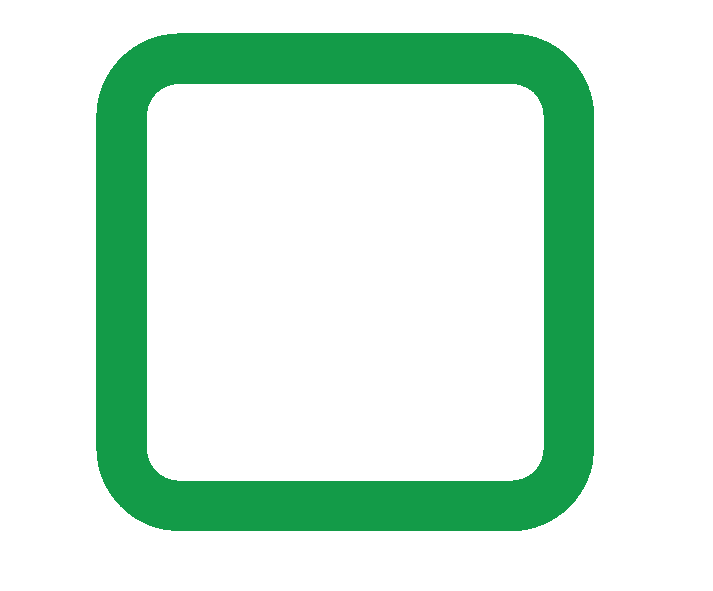
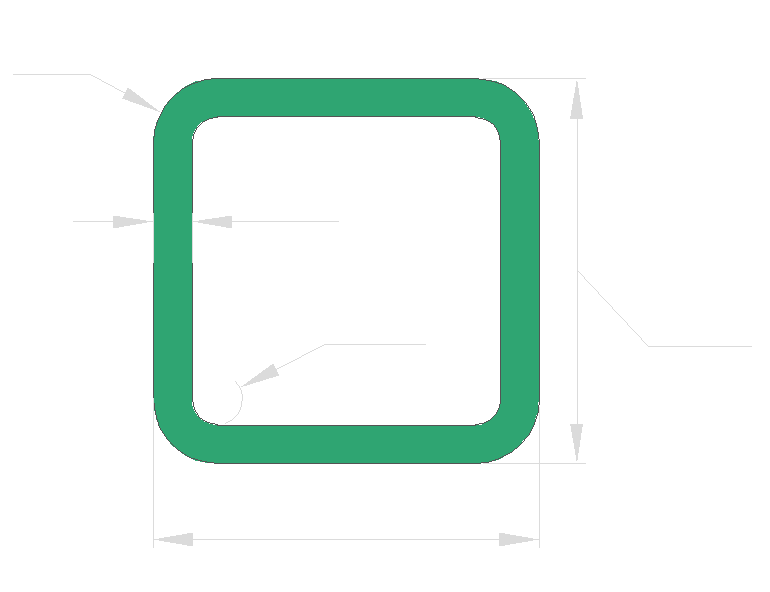
first image with labels

diff --git a/metal_calc.0.7_images.py b/metal_calc.0.7_images.py
@@ -45,44 +45,39 @@ class App(ctk.CTk):
         self.upper_menu = UpperMenu(self)
         self.upper_menu.grid(row=0, column=0, pady=(10, 7), padx=(30, 0), sticky="", columnspan = 2)
 
-        self.image_side = ImageSide(self)
+        # side image with parameters
+        self.image_side_list = [ImageSide(self, 0), ImageSide(self, 1), ImageSide(self, 2), ImageSide(self, 3)]
+        self.image_side = self.image_side_list[0]
         self.image_side.grid(row=1, column=0, pady=(0, 0), padx=(30, 0), sticky="nw")
 
         # interface
-        self.window = BuildInterface(self, 0)
-        self.window1 = BuildInterface(self, 1)
-        self.window2 = BuildInterface(self, 2)
-        self.window3 = BuildInterface(self, 3)
-
-        self.windows_list = [self.window, self.window1, self.window2, self.window3]
+        self.windows_list = [BuildInterface(self, 0), BuildInterface(self, 1), BuildInterface(self, 2), BuildInterface(self, 3)]
         self.interface = self.windows_list[0]
         self.interface.grid(row=1, column=1, pady=(0, 0), padx=(0, 0), sticky="nw")
 
         # create list for entries validations indication
-        self.indL = [False, False, False]
-        self.indL1 = [False, True, False]
-        self.list_of_indLists = [self.indL, self.indL1, "", ""]
+        self.list_of_indLists = [[False, False, False], [False, True, False], "", ""]
         self.indList = self.list_of_indLists[0]
 
         # list for errLabels indexes
-        self.ErLabLi = [self.window.wLabel.label, self.window.hLabel.label, self.window.tLabel.label,
-                        self.window.dLabel.label, self.window.sumLabel.label]
-        self.ErLabLi1 = [self.window1.wLabel.label, "", self.window1.tLabel.label, self.window1.dLabel.label,
-                         self.window1.sumLabel.label]
-        self.ErLabLi2 = ["", "", "", self.window2.dLabel.label, self.window2.sumLabel.label]
-        self.ErLabLi3 = ["", "", "", self.window3.dLabel.label, self.window3.sumLabel.label]
-        self.list_of_labels_lists = [self.ErLabLi, self.ErLabLi1, self.ErLabLi2, self.ErLabLi3]
+        ErLabLi = [self.windows_list[0].wLabel.label, self.windows_list[0].hLabel.label, self.windows_list[0].tLabel.label,
+                        self.windows_list[0].dLabel.label, self.windows_list[0].sumLabel.label]
+        ErLabLi1 = [self.windows_list[1].wLabel.label, "", self.windows_list[1].tLabel.label, self.windows_list[1].dLabel.label,
+                         self.windows_list[1].sumLabel.label]
+        ErLabLi2 = ["", "", "", self.windows_list[2].dLabel.label, self.windows_list[2].sumLabel.label]
+        ErLabLi3 = ["", "", "", self.windows_list[3].dLabel.label, self.windows_list[3].sumLabel.label]
+        self.list_of_labels_lists = [ErLabLi, ErLabLi1, ErLabLi2, ErLabLi3]
         self.ErLabList = self.list_of_labels_lists[0]
         self.ErLabListNew = self.list_of_labels_lists[0]
 
         # list of entries
-        self.entrLst = [self.window.width_entry.entry, self.window.height_entry.entry,
-                        self.window.thickness_entry.entry, self.window.dens_entry.entry, self.window.sumEntry.entry]
-        self.entrLst1 = [self.window1.width_entry.entry, "", self.window1.thickness_entry.entry,
-                         self.window1.dens_entry.entry, self.window1.sumEntry.entry]
-        self.entrLst2 = ["", "", "", self.window2.dens_entry.entry, self.window2.sumEntry.entry]
-        self.entrLst3 = ["", "", "", self.window3.dens_entry.entry, self.window3.sumEntry.entry]
-        self.list_of_entries_lists = [self.entrLst, self.entrLst1, self.entrLst2, self.entrLst3]
+        entrLst = [self.windows_list[0].width_entry.entry, self.windows_list[0].height_entry.entry,
+                        self.windows_list[0].thickness_entry.entry, self.windows_list[0].dens_entry.entry, self.windows_list[0].sumEntry.entry]
+        entrLst1 = [self.windows_list[1].width_entry.entry, "", self.windows_list[1].thickness_entry.entry,
+                         self.windows_list[1].dens_entry.entry, self.windows_list[1].sumEntry.entry]
+        entrLst2 = ["", "", "", self.windows_list[2].dens_entry.entry, self.windows_list[2].sumEntry.entry]
+        entrLst3 = ["", "", "", self.windows_list[3].dens_entry.entry, self.windows_list[3].sumEntry.entry]
+        self.list_of_entries_lists = [entrLst, entrLst1, entrLst2, entrLst3]
         self.entriesList = self.list_of_entries_lists[0]
         self.entriesListNew = self.list_of_entries_lists[0]
 
@@ -91,13 +86,16 @@ class App(ctk.CTk):
         """change frames"""
         # remove focus from entry
         self.interface.focus()
+        self.image_side.grid_remove()
         self.interface.grid_remove()
 
+        self.image_side = self.image_side_list[frame_ind]
         self.interface = self.windows_list[frame_ind]
         self.indList = self.list_of_indLists[frame_ind]
         self.ErLabListNew = self.list_of_labels_lists[frame_ind]
         self.entriesListNew = self.list_of_entries_lists[frame_ind]
 
+        self.image_side.grid(row=1, column=0, pady=(0, 0), padx=(30, 0), sticky="nw")
         self.interface.grid(row=1, column=1, pady=(0, 0), padx=(0, 0), sticky="nw")
 
     ########################
@@ -332,6 +330,7 @@ class App(ctk.CTk):
                 for i, each in enumerate(self.indList):
                     if not each:
                         self.clear_result_entry()
+                        app.image_side.clear_imageside(frame_ind)
                         # if remove not thickness value, change border to green 
                         if i != 2:
                             if self.is_float(self.entriesList[2].get()):
@@ -355,8 +354,8 @@ class App(ctk.CTk):
                 indicator = self.give_color_th(thickness, smaller)
                 if indicator:
                     standard = self.interface.combobox.combobox.get()
-                    ro = 0
-                    ri = 0
+                    ro = 0.0
+                    ri = 0.0
                     spreadsheet = ""
                     if standard == "EN10210":
                         match frame_ind:
@@ -393,8 +392,10 @@ class App(ctk.CTk):
                     if frame_ind == 0:
                         area = round((2 * thickness * (width + height - 2 * thickness) - (4 - 3.141592) *
                                       (ro ** 2 - ri ** 2)) / 100, 5)
+                        app.image_side.pollute_imageside(frame_ind, [width, height, thickness, ro, ri])
                     else:
                         area = round(3.141592 * (width ** 2 - (width - 2 * thickness) ** 2) / 400, 5)
+                        app.image_side.pollute_imageside(frame_ind, [width, thickness])
 
                     self.put_sumtext(area, standard)
 
@@ -425,6 +426,8 @@ class App(ctk.CTk):
 
                 else:
                     self.clear_result_entry()
+                    app.image_side.clear_imageside(frame_ind)
+
             case 2 | 3:
                 self.list_trick()
                 profile_name = self.interface.scrollable_button_frame.button_chosen
@@ -645,6 +648,7 @@ class BuildInterface(ctk.CTkFrame):
 
         match frame_ind:
             case 0 | 1:
+                dens_tail = 0
                 self.wLabel = CreateLabels(self, [0, 0], [lpadx, 0], [hpady, 0], elem_width, "w", 1)
 
                 if frame_ind == 0:
@@ -668,6 +672,7 @@ class BuildInterface(ctk.CTkFrame):
             case 2 | 3:
                 # get list of profiles
                 self.frame_list_of_sec_lists = []
+                dens_tail = 10
                 remove_last = 0
                 if frame_ind == 2:
                     tables_names = ["IPE_EN10365", "IPN_EN10365"]
@@ -682,7 +687,7 @@ class BuildInterface(ctk.CTkFrame):
 
                 self.scrollable_button_frame = ScrollableButtonFrame(self, width=108, height=100, border_width=2,
                                                                      border_color=master.origEntBorderColor, )
-                self.scrollable_button_frame.grid(row=0, column=0, padx=(lpadx, 0), pady=(hpady + 15, lwpady),
+                self.scrollable_button_frame.grid(row=0, column=0, padx=(lpadx, 0), pady=(hpady + 5, lwpady),
                                                   rowspan=4, columnspan=1, sticky="nesw")
                 self.scrollable_button_frame._scrollbar.configure(height=0)  # bug, it's needed
                 self.scrollable_button_frame._scrollbar.grid(row=1, column=1, sticky="nsew", padx=(0, 3))
@@ -692,14 +697,14 @@ class BuildInterface(ctk.CTkFrame):
                 self.Sentry = ctk.CTkEntry(self, width=elem_width, placeholder_text="search", font=self.custom_font,
                                            justify=justify)  # image = image,
                 self.Sentry.bind("<KeyRelease>", lambda event: self.search(event, frame_ind))
-                self.Sentry.grid(row=0, column=1, padx=(lpadx2, 0), pady=(hpady + 15, lwpady))
+                self.Sentry.grid(row=0, column=1, padx=(lpadx2, 0), pady=(hpady + 5, lwpady))
 
         # options menu for standards
         self.combobox = CreateCombobox(self, [1, 1], [lpadx2, 0], [0, lwpady], combo_list, elem_width, self.custom_font,
                                        justify, frame_ind)
 
         self.dLabel = CreateLabels(self, [2, 1], [lpadx2, 0], [0, 0], elem_width, "w", 1)
-        self.dens_entry = CreateEntry(self, [3, 1], [lpadx2, 0], [0, lwpady], elem_width, "7850kg/cub.m",
+        self.dens_entry = CreateEntry(self, [3, 1], [lpadx2, 0], [0, lwpady + dens_tail], elem_width, "7850kg/cub.m",
                                       self.custom_font, vcmd_d, justify, 3, "w", 1, frame_ind)
         self.dens_entry.entry.configure(border_color=master.theme_color)
 
@@ -932,21 +937,60 @@ class ScrollableButtonFrame(ctk.CTkScrollableFrame):
 
 ###########################################################################################
 class ImageSide(ctk.CTkFrame):
-    def __init__(self, master):
+    """side for size illustration"""
+    def __init__(self, master, frame_ind):
         super().__init__(master)
-        #self.configure(fg_color="transparent")
-        image_name = "bigRec2.png"
-        image = ctk.CTkImage(Image.open(App.resource_path("assets\\" + image_name)), size=(293, 225))
+        self.configure(fg_color="transparent")
+        self.labels_parameters = [
+            [["H", 248, 115], ["W", 118, 188], ["t", 90, 68], ["R", 3, 12], ["r", 125, 114]],
+            [["d", 248, 115], ["t", 118, 188]],
+            [["d", 248, 115], ["t", 118, 188]],
+            [["d", 248, 115], ["t", 118, 188]],
+        ]
+        self.image_label_list = [[], [], [], []]
+        self.image_png_names = ["bigRec.png", "round_circle.png", "i-beam.png", "u_sect.png", ]
+        
+        self.create_imageside(frame_ind)
+
+    ##############################
+    def create_imageside(self, frame_ind):
+        """create image and labels"""
+        image = ctk.CTkImage(Image.open(App.resource_path("assets\\" + self.image_png_names[frame_ind])), size=(293, 225))
         self.label = ctk.CTkLabel(self, text="", image=image)
         self.label.pack()
-        self.label_h = ctk.CTkLabel(self.label, text="999.99", fg_color="transparent", font=('Helvetica', 13), height=13)
-        self.label_h.place(x=262, y=78)
-        self.label_w = ctk.CTkLabel(self.label, text="999.99", fg_color="transparent", font=('Helvetica', 13), height=13)
-        self.label_w.place(x=135, y=200)
+        for item in self.labels_parameters[frame_ind]:
+            label = ctk.CTkLabel(self.label, fg_color="transparent", font=('Helvetica', 14), height=13, width=30, anchor= "center",
+                                    text=item[0])
+            label.place(x=item[1], y=item[2])
+            self.image_label_list[frame_ind].append(label)
+
+    ##############################
+    def clear_imageside(self, frame_ind):
+        """clear parameters labels"""
+        for k, _label in enumerate(app.image_side_list[frame_ind].image_label_list[frame_ind]):
+            _label.configure(text=app.image_side_list[frame_ind].labels_parameters[frame_ind][k][0])
+
+    ##############################
+    def pollute_imageside(self, frame_ind, list_of_parameters):
+        """pollute labels on image side"""
+        if frame_ind == 0 or frame_ind == 1:
+            for j, par in enumerate(list_of_parameters):
+                if par.is_integer():
+                    par = int(par)
+                if j < 3:
+                    _text = str(par).replace(".", ",")
+                elif par == 0:
+                    _text = "N/S"
+                elif round(float(par), 1).is_integer():
+                    _text = str(int(round(par, 1))).replace(".", ",")
+                else:
+                    _text = str(round(par, 1)).replace(".", ",")
+                app.image_side_list[frame_ind].image_label_list[frame_ind][j].configure(text=_text)
+
 
 ###########################################################################################
 if __name__ == "__main__":
-    ctk.set_appearance_mode("system")  # Modes: system (default), light, dark
+    ctk.set_appearance_mode("dark")  # Modes: system (default), light, dark
     ctk.set_default_color_theme("green")  # Themes: blue (default), dark-blue, green
     app = App()
     app.mainloop()
